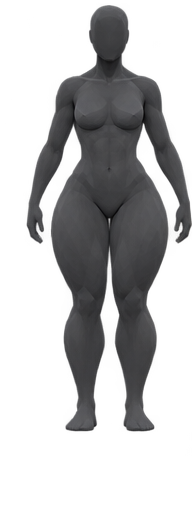
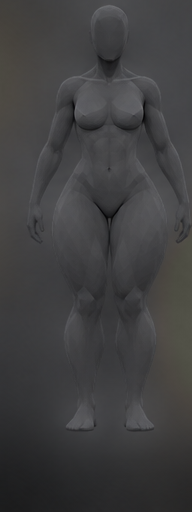
Goals/пікер фігури: прибрати світіння-бліди, портретні мініатюри, remove у шторці
Live-ревʼю виявило: у base-силуетах було крайове золоте світіння від сусідніх
lit-клітин (спрайт клеївся встик) + видимий прямокутний «тайл» (фон рендера
світліший за картку і не матиться — фігура й фон однакова яскравість).
- Знешкоджено тепле світіння у 8 base-зображеннях (clip R,G до B+10) — злитки чисті.
- Замість маски-віньєтки — акуратні заокруглені портретні мініатюри (навмисний
  вигляд замість випадкового тайлу); base/lit піксель-у-піксель, active-свап без зсуву.
- Додано «Прибрати» (remove) у шторці пікера — скидання physique target окремо.
Перевірено вручну: злитки чисті, вирівнювання, свап, remove, приховання статі.

Claude-Session: https://claude.ai/code/session_01BAgqTx4XiGeaj8SSxpQw7d

diff --git a/client/src/styles.css b/client/src/styles.css
@@ -14479,7 +14479,7 @@ button.exd-media {
 }
 .goals-physique-fig {
   flex: none;
-  width: 48px;
+  width: 64px;
 }
 .goals-physique-name {
   font-size: 20px;
@@ -14490,6 +14490,17 @@ button.exd-media {
   color: var(--color-neutral-500);
   margin-top: 3px;
   line-height: 1.45;
+}
+.phys-remove {
+  margin-left: auto;
+  border: 0;
+  background: none;
+  color: var(--color-neutral-500);
+  font-size: 12px;
+  cursor: pointer;
+}
+.phys-remove:hover {
+  color: var(--color-danger-text);
 }
 .phys-intro {
   margin: 0 0 4px;
@@ -14528,9 +14539,14 @@ button.exd-media {
 }
 .phys-fig {
   position: relative;
-  width: 56px;
+  width: 82px;
   margin: 0 auto;
   aspect-ratio: 192 / 512;
+  /* Studio renders can't be matted (figure tone == bg tone), so present each as
+     a neat rounded portrait rather than an accidental rectangular tile. */
+  border-radius: 12px;
+  overflow: hidden;
+  box-shadow: inset 0 0 0 1px rgba(255, 255, 255, 0.06);
 }
 .phys-fig img {
   position: absolute;

diff --git a/client/src/views/PhysiquePicker.tsx b/client/src/views/PhysiquePicker.tsx
@@ -48,6 +48,17 @@ export function PhysiquePicker({ onClose }: { onClose: () => void }) {
           <Icon name="caret-left" />
         </button>
         <span className="t">{t.goalsPhysiqueTitle}</span>
+        {cur && (
+          <button
+            className="phys-remove"
+            onClick={() => {
+              setPhysiqueTarget(undefined);
+              onClose();
+            }}
+          >
+            {t.physRemove}
+          </button>
+        )}
       </div>
 
       <p className="phys-intro">{t.physIntro}</p>

diff --git a/client/src/i18n/uk.ts b/client/src/i18n/uk.ts
@@ -612,6 +612,7 @@ export const uk: Strings = {
   physIntro: 'Обери форму, до якої будуєшся — вона задає стартовий фокус мʼязів, який далі можна підлаштувати.',
   physUseThis: 'Обрати цю ціль',
   physChange: 'Змінити',
+  physRemove: 'Прибрати',
   goalsReset: 'Скинути цілі',
   goalsResetBody: 'Це очистить ціль фігури та фокус блоку.',
   lastDoneCol: 'Востаннє',

diff --git a/client/src/i18n/lt.ts b/client/src/i18n/lt.ts
@@ -619,6 +619,7 @@ export const lt: Strings = {
   physIntro: 'Pasirink formą, kurios sieki — ji nustato pradinį raumenų fokusą, kurį vėliau pakoreguosi.',
   physUseThis: 'Nustatyti šį tikslą',
   physChange: 'Keisti',
+  physRemove: 'Pašalinti',
   goalsReset: 'Atstatyti tikslus',
   goalsResetBody: 'Tai išvalys kūno tikslą ir bloko fokusą.',
   lastDoneCol: 'Paskutinį kartą',

diff --git a/client/src/i18n/et.ts b/client/src/i18n/et.ts
@@ -607,6 +607,7 @@ export const et: Strings = {
   physIntro: 'Vali kuju, mille poole ehitad — see seab lihasfookuse lähte, mida saad hiljem häälestada.',
   physUseThis: 'Vali see siht',
   physChange: 'Muuda',
+  physRemove: 'Eemalda',
   goalsReset: 'Lähtesta eesmärgid',
   goalsResetBody: 'See tühjendab kehaeesmärgi ja bloki fookuse.',
   lastDoneCol: 'Viimati',

diff --git a/client/src/i18n/en.ts b/client/src/i18n/en.ts
@@ -655,6 +655,7 @@ export const en = {
   physIntro: 'Pick the shape you\'re building toward — it seeds your muscle focus, which you can tune afterwards.',
   physUseThis: 'Use this target',
   physChange: 'Change',
+  physRemove: 'Remove',
   goalsReset: 'Reset goals',
   goalsResetBody: 'This clears your physique target and block focus.',
   lastDoneCol: 'Last done',

diff --git a/client/src/i18n/pl.ts b/client/src/i18n/pl.ts
@@ -611,6 +611,7 @@ export const pl: Strings = {
   physIntro: 'Wybierz sylwetkę, do której dążysz — ustawia startowy fokus mięśni, który potem dostroisz.',
   physUseThis: 'Ustaw ten cel',
   physChange: 'Zmień',
+  physRemove: 'Usuń',
   goalsReset: 'Zresetuj cele',
   goalsResetBody: 'To wyczyści cel sylwetki i fokus bloku.',
   lastDoneCol: 'Ostatnio',
